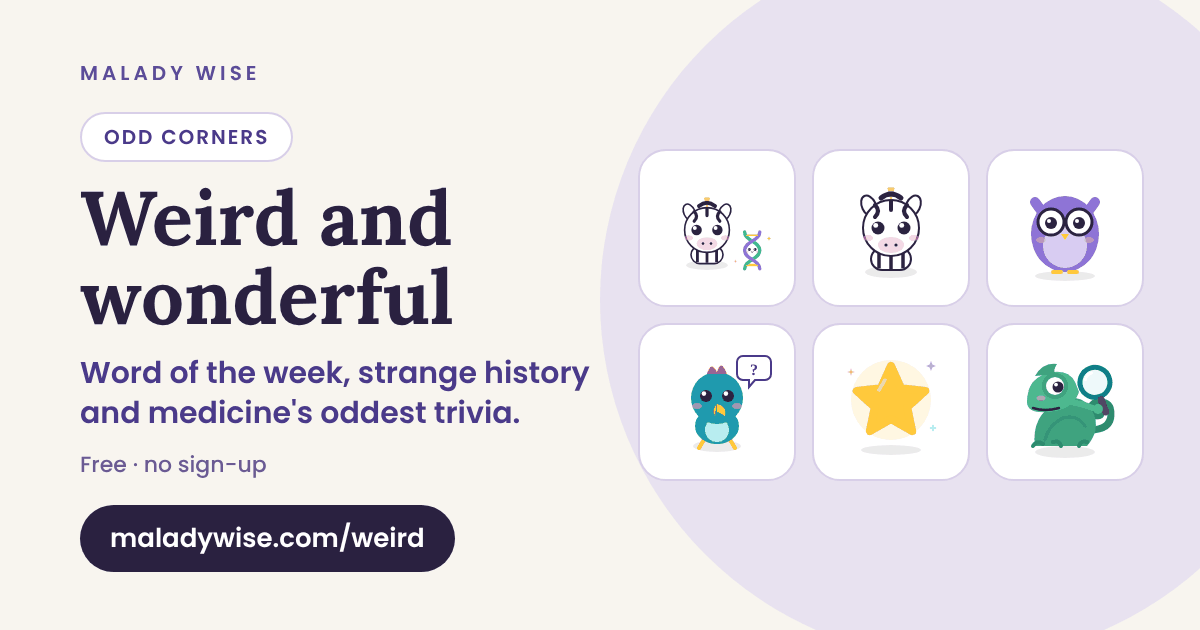
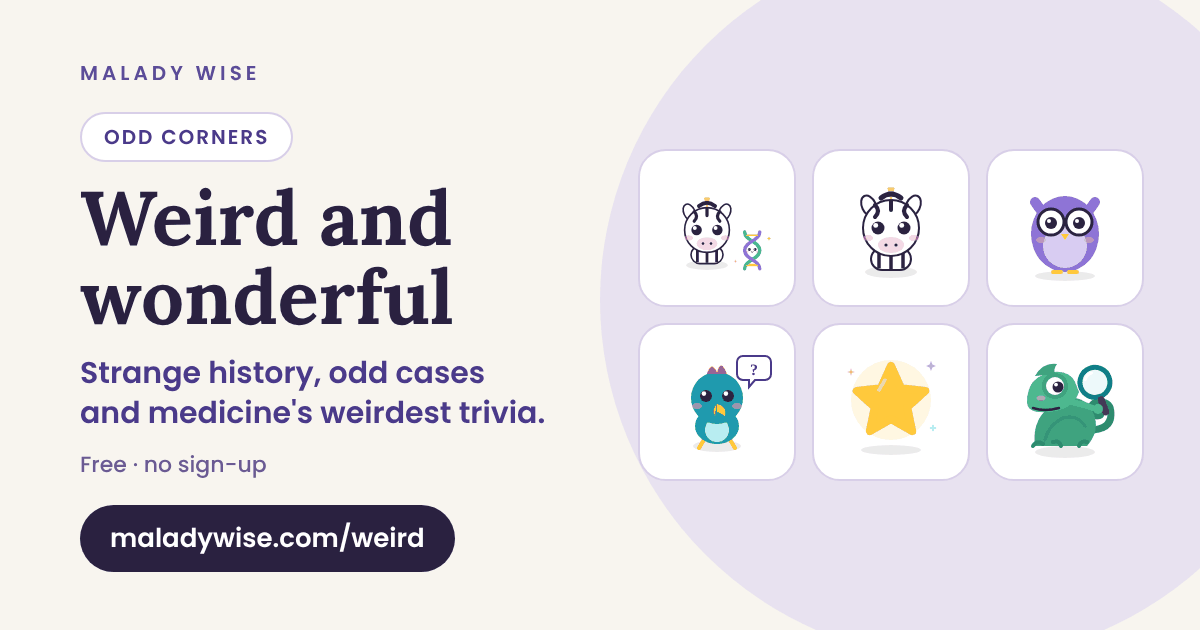
Share cards: arcade/Normie/word-of-week wording fixed, Labs pills, new Toxiquest card
Claude-Session: https://claude.ai/code/session_01CBByq29dY2cNCTmjZTgF1V

Changed region(s): [[0.0617, 0.573, 0.4933, 0.6937]]

diff --git a/weird/index.html b/weird/index.html
@@ -18,11 +18,11 @@
 <meta name="apple-mobile-web-app-title" content="Malady Wise">
 <meta property="og:title" content="Weird & wonderful | Malady Wise">
 <meta property="og:description" content="Weird and wonderful corners of Malady Wise: word of the week, strange history and odd trivia.">
-<meta property="og:image" content="https://maladywise.com/assets/og/key/weird.png?v=fd434452">
+<meta property="og:image" content="https://maladywise.com/assets/og/key/weird.png?v=6b534482">
 <meta property="og:image:width" content="1200">
 <meta property="og:image:height" content="630">
-<meta property="og:image:alt" content="Weird and wonderful: Word of the week, strange history and medicine&#x27;s oddest trivia. Malady Wise">
-<meta name="twitter:image" content="https://maladywise.com/assets/og/key/weird.png?v=fd434452">
+<meta property="og:image:alt" content="Weird and wonderful: Strange history, odd cases and medicine&#x27;s weirdest trivia. Malady Wise">
+<meta name="twitter:image" content="https://maladywise.com/assets/og/key/weird.png?v=6b534482">
 <meta name="twitter:card" content="summary_large_image">
 <link rel="preload" href="/assets/fonts/poppins-latin-400-normal.woff2" as="font" type="font/woff2" crossorigin>
 <script>try{var r=document.documentElement,t=localStorage.getItem("mw-theme");r.setAttribute("data-pre","");try{t=JSON.parse(t)}catch(e){}r.setAttribute("data-theme",t==="dark"||(t!=="light"&&matchMedia("(prefers-color-scheme: dark)").matches)?"dark":"light")}catch(e){}</script>

diff --git a/medical-games/index.html b/medical-games/index.html
@@ -20,11 +20,11 @@
 <meta property="og:url" content="https://maladywise.com/medical-games/">
 <meta property="og:title" content="Medical Games: Zebritis Zebra Game + Free Daily Quizzes">
 <meta property="og:description" content="Play Zebritis, a free daily medical zebra game: name the rare diagnosis. Plus Dxtective diagnosis cases, anatomy, ECG and medical trivia quizzes.">
-<meta property="og:image" content="https://maladywise.com/assets/og/key/medical-games.png?v=c7b89ab9">
+<meta property="og:image" content="https://maladywise.com/assets/og/key/medical-games.png?v=5ed678f6">
 <meta property="og:image:width" content="1200">
 <meta property="og:image:height" content="630">
-<meta property="og:image:alt" content="Medical games and quizzes: Daily puzzles, practice quizzes and arcade games. Malady Wise">
-<meta name="twitter:image" content="https://maladywise.com/assets/og/key/medical-games.png?v=c7b89ab9">
+<meta property="og:image:alt" content="Medical games and quizzes: Daily puzzles, practice quizzes and bonus games. Malady Wise">
+<meta name="twitter:image" content="https://maladywise.com/assets/og/key/medical-games.png?v=5ed678f6">
 <meta name="twitter:card" content="summary_large_image">
 <meta name="twitter:title" content="Medical Games: Zebritis Zebra Game + Free Daily Quizzes">
 <meta name="twitter:description" content="Play Zebritis, a free daily medical zebra game: name the rare diagnosis. Plus Dxtective diagnosis cases, anatomy, ECG and medical trivia quizzes.">

diff --git a/stackulus/index.html b/stackulus/index.html
@@ -12,11 +12,11 @@
 <meta property="og:title" content="Stackulus: Free Falling-Block Organ Game | Malady Wise">
 <meta property="og:description" content="Stackulus is a free falling-block game with organs: stack them, clear rows and learn an organ fact every level. Daily challenge and world board. Now in Malady Wise Labs (beta).">
 <meta property="og:url" content="https://maladywise.com/stackulus/">
-<meta property="og:image" content="https://maladywise.com/assets/og/stackulus.png?v=a93c4e23">
+<meta property="og:image" content="https://maladywise.com/assets/og/stackulus.png?v=4c69b682">
 <meta property="og:image:width" content="1200">
 <meta property="og:image:height" content="630">
 <meta property="og:image:alt" content="Stackulus: Organs are falling. Stack them, clear the ward. Malady Wise">
-<meta name="twitter:image" content="https://maladywise.com/assets/og/stackulus.png?v=a93c4e23">
+<meta name="twitter:image" content="https://maladywise.com/assets/og/stackulus.png?v=4c69b682">
 <meta name="twitter:card" content="summary_large_image">
 <meta name="twitter:description" content="Stackulus is a free falling-block game with organs: stack them, clear rows and learn an organ fact every level. Daily challenge and world board. Now in Malady Wise Labs (beta).">
 <meta name="twitter:title" content="Stackulus: Free Falling-Block Organ Game | Malady Wise">

diff --git a/sudokrine/index.html b/sudokrine/index.html
@@ -22,11 +22,11 @@
 <meta property="og:title" content="Sudokrine: Medical Sudoku | Malady Wise">
 <meta property="og:description" content="Sudokrine is a free daily medical sudoku with a hidden word: fill the grid with letters, then spell the hormone or gland. 6x6 early week, 9x9 at weekends. Now in Malady Wise Labs (beta).">
 <meta property="og:url" content="https://maladywise.com/sudokrine/">
-<meta property="og:image" content="https://maladywise.com/assets/og/sudokrine.png?v=b4b8cf2c">
+<meta property="og:image" content="https://maladywise.com/assets/og/sudokrine.png?v=c2d293a8">
 <meta property="og:image:width" content="1200">
 <meta property="og:image:height" content="630">
 <meta property="og:image:alt" content="Sudokrine: Medical sudoku with a hidden word. Malady Wise">
-<meta name="twitter:image" content="https://maladywise.com/assets/og/sudokrine.png?v=b4b8cf2c">
+<meta name="twitter:image" content="https://maladywise.com/assets/og/sudokrine.png?v=c2d293a8">
 <meta name="twitter:card" content="summary_large_image">
 <meta name="twitter:title" content="Sudokrine: Medical Sudoku | Malady Wise">
 <meta name="twitter:description" content="Sudokrine is a free daily medical sudoku with a hidden word: fill the grid with letters, then spell the hormone or gland. 6x6 early week, 9x9 at weekends. Now in Malady Wise Labs (beta).">

diff --git a/toxiquest/index.html b/toxiquest/index.html
@@ -5,6 +5,11 @@
 <meta name="robots" content="max-image-preview:large">
 <title>Toxiquest: Toxicology December | Malady Wise</title>
 <meta name="description" content="Toxiquest: one poisoning mystery a day through December. Read the clues, accuse the culprit, learn the antidote.">
+<meta property="og:type" content="website"><meta property="og:site_name" content="Malady Wise"><meta property="og:url" content="https://maladywise.com/toxiquest/">
+<meta property="og:title" content="Toxiquest: Toxicology December | Malady Wise">
+<meta property="og:description" content="One poisoning mystery a day through December. Read the clues, accuse the culprit, learn the antidote.">
+<meta property="og:image" content="https://maladywise.com/assets/og/toxiquest.png?v=1"><meta property="og:image:width" content="1200"><meta property="og:image:height" content="630"><meta property="og:image:alt" content="Toxiquest: one poisoning mystery a day. Name the culprit, learn the antidote.">
+<meta name="twitter:card" content="summary_large_image"><meta name="twitter:image" content="https://maladywise.com/assets/og/toxiquest.png?v=1">
 <link rel="icon" type="image/png" sizes="32x32" href="../assets/favicon-32.png">
 <link rel="preload" href="/assets/fonts/poppins-latin-400-normal.woff2" as="font" type="font/woff2" crossorigin>
 <style>

diff --git a/basil-clover/index.html b/basil-clover/index.html
@@ -22,11 +22,11 @@
 <meta property="og:title" content="Basil + Clover: Free Cat Arcade Game | Malady Wise">
 <meta property="og:description" content="Basil + Clover is a free cat arcade game: help Basil kick everything off the kitchen bench, then survive a trip to the vet with his sister Clover.">
 <meta property="og:url" content="https://maladywise.com/basil-clover/">
-<meta property="og:image" content="https://maladywise.com/assets/og/basil.png?v=0fb6a998">
+<meta property="og:image" content="https://maladywise.com/assets/og/basil.png?v=df56a659">
 <meta property="og:image:width" content="1200">
 <meta property="og:image:height" content="630">
 <meta property="og:image:alt" content="Basil + Clover: Kick it off the bench. Survive the vet. Malady Wise">
-<meta name="twitter:image" content="https://maladywise.com/assets/og/basil.png?v=0fb6a998">
+<meta name="twitter:image" content="https://maladywise.com/assets/og/basil.png?v=df56a659">
 <meta name="twitter:card" content="summary_large_image">
 <meta name="twitter:description" content="Basil + Clover is a free cat arcade game: help Basil kick everything off the kitchen bench, then survive a trip to the vet with his sister Clover.">
 <meta name="twitter:title" content="Basil + Clover: Free Cat Arcade Game | Malady Wise">

diff --git a/mergeon/index.html b/mergeon/index.html
@@ -12,11 +12,11 @@
 <meta property="og:title" content="Mergeon: Free Organ Merge Game | Malady Wise">
 <meta property="og:description" content="Mergeon is a free organ merge game: drop organs, match two of a kind and merge your way from microbe to brain. Same drops for everyone, every day.">
 <meta property="og:url" content="https://maladywise.com/mergeon/">
-<meta property="og:image" content="https://maladywise.com/assets/og/mergeon.png?v=856efc8a">
+<meta property="og:image" content="https://maladywise.com/assets/og/mergeon.png?v=97776324">
 <meta property="og:image:width" content="1200">
 <meta property="og:image:height" content="630">
 <meta property="og:image:alt" content="Mergeon: Drop, match and merge from microbe to brain. Malady Wise">
-<meta name="twitter:image" content="https://maladywise.com/assets/og/mergeon.png?v=856efc8a">
+<meta name="twitter:image" content="https://maladywise.com/assets/og/mergeon.png?v=97776324">
 <meta name="twitter:card" content="summary_large_image">
 <meta name="twitter:description" content="Mergeon is a free organ merge game: drop organs, match two of a kind and merge your way from microbe to brain. Same drops for everyone, every day.">
 <meta name="twitter:title" content="Mergeon: Free Organ Merge Game | Malady Wise">

diff --git a/_scripts/key_cards.py b/_scripts/key_cards.py
@@ -297,6 +297,19 @@ def g_mergeon():
     return svg("".join(b))
 
 
+def g_toxiquest():
+    # a corked poison bottle with a skull-free label, three suspect leaves and a magnifier
+    b = ['<path d="M150 40h40v34l38 52v84a18 18 0 0 1-18 18h-80a18 18 0 0 1-18-18v-84l38-52z" fill="#CDEBC4" stroke="%s" stroke-width="4" stroke-linejoin="round"/>' % INK,
+         '<path d="M118 160h104v50a18 18 0 0 1-18 18h-68a18 18 0 0 1-18-18z" fill="%s" opacity=".85"/>' % GRN,
+         '<rect x="144" y="22" width="52" height="24" rx="6" fill="#B5764A" stroke="%s" stroke-width="3"/>' % INK,
+         '<rect x="132" y="120" width="76" height="34" rx="8" fill="#FFFFFF" stroke="%s" stroke-width="3"/>' % INK,
+         '<text x="170" y="143" text-anchor="middle" font-family="Poppins" font-weight="700" font-size="18" fill="%s">?</text>' % PUR,
+         '<path d="M40 210q20-40 50-30q-10 30-50 30z" fill="#7CC36A" stroke="%s" stroke-width="3"/>' % INK,
+         '<path d="M262 70q30-6 40 22q-30 6-40-22z" fill="#7CC36A" stroke="%s" stroke-width="3"/>' % INK,
+         '<circle cx="270" cy="180" r="24" fill="#FFFFFF" stroke="%s" stroke-width="5"/><path d="M287 197l22 22" stroke="%s" stroke-width="7" stroke-linecap="round"/>' % (PUR, PUR)]
+    return svg("".join(b))
+
+
 def g_basil():
     return svg('<rect x="20" y="150" width="300" height="20" rx="6" fill="#C9B8EA" stroke="%s" stroke-width="3"/>'
                '<rect x="34" y="170" width="272" height="64" fill="#E8E2F0" stroke="%s" stroke-width="3"/>'
@@ -383,7 +396,7 @@ CARDS = [
         file="assets/share.png", foot="New puzzles every day. Always free.", big=True,
         urls=["/", "/about/", "/contact/", "/privacy/", "/disclaimer/", "/rare-conditions/"]),
     hub("medical-games", "/medical-games/", "Medical games and quizzes", "All the puzzles",
-        "Daily puzzles, practice quizzes and arcade games.",
+        "Daily puzzles, practice quizzes and bonus games.",
         ["mascots/dx.svg", "mascots/wordemic.svg", "mascots/triviosis.svg", "mascots/opacitis.svg?v=2", "mascots/arrhythmix.svg", "mascots/gridectomy.svg"],
         foot="All free, no sign-up"),
     hub("arcade", "/arcade/", "Arcade games", "Bonus arcade",
@@ -400,7 +413,7 @@ CARDS = [
         "Plain-English fact sheets, overseen by an Australian GP.",
         ["days/stethoscope.svg", "days/heart-calm.svg", "days/brain.svg", "days/lupus-butterfly.svg", "days/tess-bone.svg", "svg:T_DOC"]),
     hub("weird", "/weird/", "Weird and wonderful", "Odd corners",
-        "Word of the week, strange history and medicine's oddest trivia.",
+        "Strange history, odd cases and medicine's weirdest trivia.",
         ["days/zebra-rare.svg", "mascots/zebritis.svg", "days/owl.svg", "mascots/triviosis.svg", "days/star.svg", "mascots/glimpsis.svg"],
         foot="Free · no sign-up"),
     hub("words", "/words/", "Medical word of the week", "Word of the week",
@@ -454,7 +467,7 @@ CARDS = [
     game("linkase", "Linkase", "Word chain", "Each word links to the next. Fill the chain.", ["mascots/linkase.svg"], g_linkase(), "linkase", extra_urls=archives("linkase")),
     game("zebritis", "Zebritis", "Rarest answer wins", "Name a correct answer. Rare zebras score big.", ["mascots/zebritis.svg"], g_zebritis(), "zebritis", extra_urls=archives("zebritis")),
     game("gridectomy", "Gridectomy", "Mini crossword", "A five-by-five medical mini crossword.", ["mascots/gridectomy.svg"], g_gridectomy(), "gridectomy", extra_urls=archives("gridectomy")),
-    game("sudokrine", "Sudokrine", "Word sudoku", "Medical sudoku with a hidden word.", ["mascots/sudokrine.svg"], g_sudokrine(), "sudokrine", extra_urls=archives("sudokrine")),
+    game("sudokrine", "Sudokrine", "Labs · Beta", "Medical sudoku with a hidden word.", ["mascots/sudokrine.svg"], g_sudokrine(), "sudokrine", extra_urls=archives("sudokrine")),
     game("suturix", "Suturix", "Word search", "Find the theme words and the spangram.", ["mascots/suturix.svg"], g_suturix(), "suturix", extra_urls=archives("suturix")),
     game("morphemia", "Morphemia", "Word-building game", "Seven letters. Medical words score double.", ["mascots/morphemia.svg"], g_morphemia(), "morphemia", extra_urls=archives("morphemia")),
     game("arrhythmix", "Arrhythmix", "ECG game", "Read the ECG. Name the rhythm in three tries.", ["mascots/arrhythmix.svg"], g_arrhythmix(), "arrhythmix",
@@ -465,11 +478,12 @@ CARDS = [
          foot="Free · new crossword every Saturday", extra_urls=archives("cryptoplexy")),
     game("grandrounds", "Grand Rounds", "Hard trivia", "Twenty hard medical questions. No multiple choice.", ["mascots/grandrounds.svg"], g_grandrounds(), "grand-rounds",
          foot="Free · new quiz every Sunday", extra_urls=archives("grand-rounds")),
-    game("stackulus", "Stackulus", "Arcade game", "Organs are falling. Stack them, clear the ward.", ["mascots/stackulus.svg"], g_stackulus(), "stackulus",
+    game("stackulus", "Stackulus", "Labs · Beta", "Organs are falling. Stack them, clear the ward.", ["mascots/stackulus.svg"], g_stackulus(), "stackulus",
          foot="Free · daily challenge and world board"),
-    game("mergeon", "Mergeon", "Arcade game", "Drop, match and merge from microbe to brain.", ["mascots/mergeon.svg"], g_mergeon(), "mergeon",
+    game("mergeon", "Mergeon", "Organ merge game", "Drop, match and merge from microbe to brain.", ["mascots/mergeon.svg"], g_mergeon(), "mergeon",
          foot="Free · same drops for everyone, every day"),
-    game("basil", "Basil + Clover", "Cat arcade game", "Kick it off the bench. Survive the vet.", ["mascots/basil.svg", "mascots/clover.svg"], g_basil(), "basil-clover",
+    game("toxiquest", "Toxiquest", "Toxicology December", "One poisoning mystery a day. Name the culprit, learn the antidote.", ["mascots/allergy.svg"], g_toxiquest(), "toxiquest", foot="Free · a new case every day in December"),
+    game("basil", "Basil + Clover", "Cat chaos game", "Kick it off the bench. Survive the vet.", ["mascots/basil.svg", "mascots/clover.svg"], g_basil(), "basil-clover",
          foot="Free · play any time"),
 ]
 BY_URL = {u: c for c in CARDS for u in c["urls"]}
